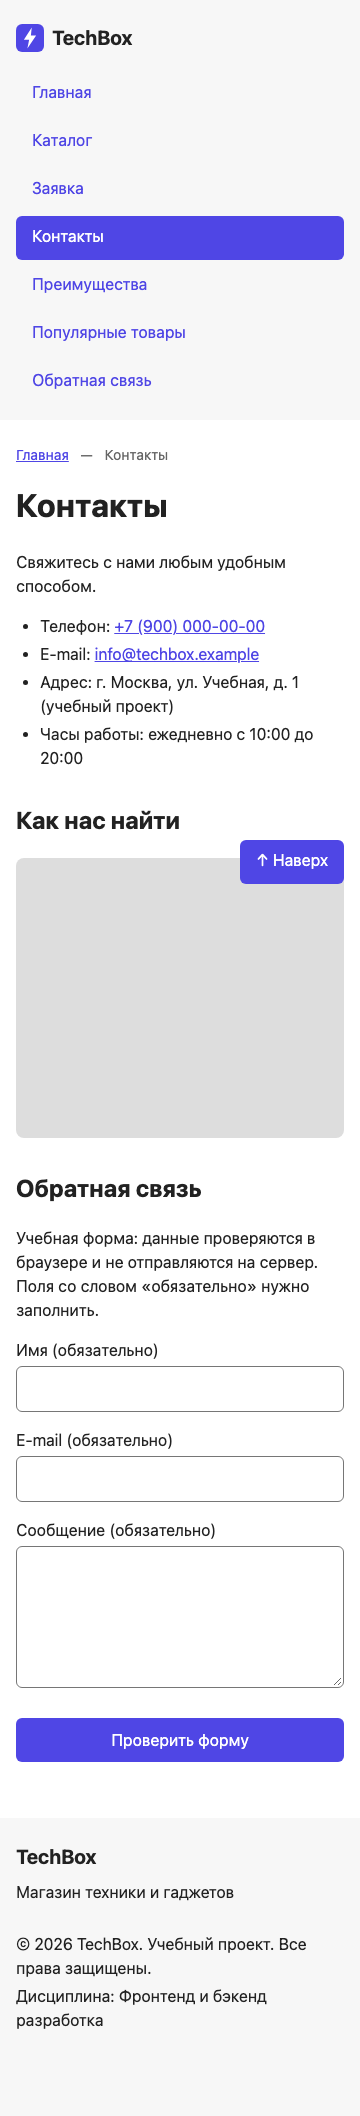
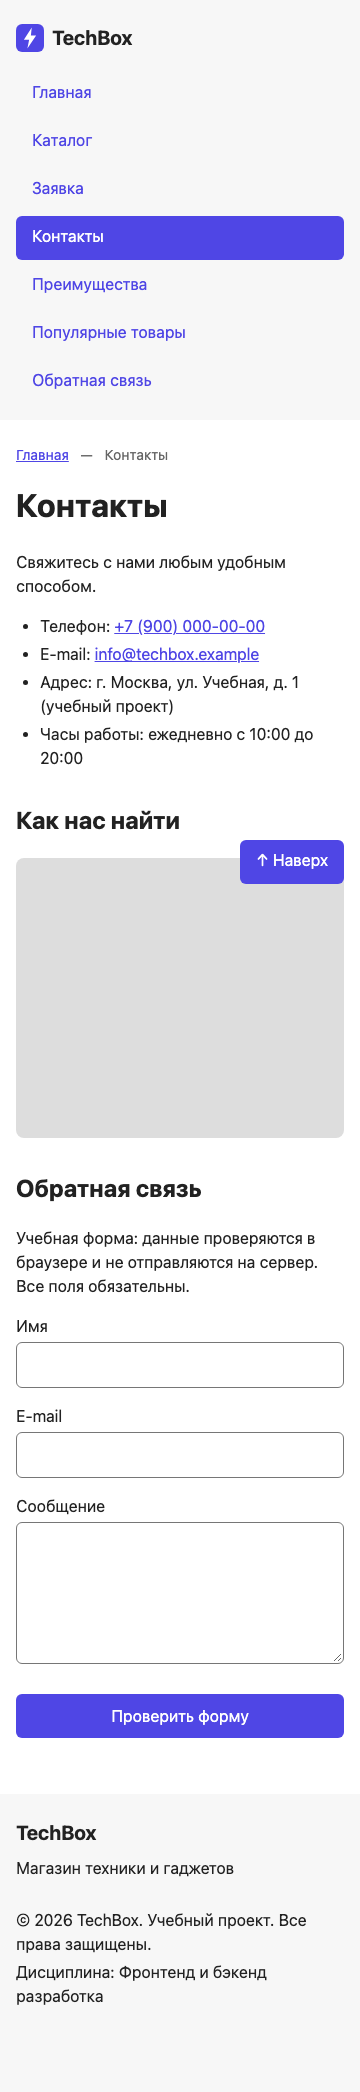
fix: simplify feedback labels and refresh script cache

diff --git a/contacts.html b/contacts.html
@@ -8,7 +8,7 @@
   <link rel="icon" href="images/logo.svg" type="image/svg+xml">
   <link rel="stylesheet" href="css/style.css">
   <link rel="stylesheet" href="css/responsive.css">
-  <script src="js/main.js" defer></script>
+  <script src="js/main.js?v=kr1-original" defer></script>
 </head>
 <body>
   <a class="skip-link" href="#main">Перейти к основному содержимому</a>
@@ -71,18 +71,18 @@
 
     <section class="section" id="feedback">
       <h2 class="section__title">Обратная связь</h2>
-      <p id="feedback-note">Учебная форма: данные проверяются в браузере и не отправляются на сервер. Поля со словом «обязательно» нужно заполнить.</p>
+      <p id="feedback-note">Учебная форма: данные проверяются в браузере и не отправляются на сервер. Все поля обязательны.</p>
       <form class="order-form" id="order-form" action="#feedback" method="post" aria-describedby="feedback-note" novalidate>
         <div class="order-form__field">
-          <label class="order-form__label" for="feedback-name">Имя (обязательно)</label>
+          <label class="order-form__label" for="feedback-name">Имя</label>
           <input class="order-form__input" id="feedback-name" name="name" type="text" autocomplete="given-name" minlength="2" required>
         </div>
         <div class="order-form__field">
-          <label class="order-form__label" for="feedback-email">E-mail (обязательно)</label>
+          <label class="order-form__label" for="feedback-email">E-mail</label>
           <input class="order-form__input" id="feedback-email" name="email" type="email" autocomplete="email" required>
         </div>
         <div class="order-form__field order-form__field--wide">
-          <label class="order-form__label" for="feedback-comment">Сообщение (обязательно)</label>
+          <label class="order-form__label" for="feedback-comment">Сообщение</label>
           <textarea class="order-form__textarea" id="feedback-comment" name="comment" rows="5" required></textarea>
         </div>
         <div class="order-form__actions">

diff --git a/index.html b/index.html
@@ -8,7 +8,7 @@
   <link rel="icon" href="images/logo.svg" type="image/svg+xml">
   <link rel="stylesheet" href="css/style.css">
   <link rel="stylesheet" href="css/responsive.css">
-  <script src="js/main.js" defer></script>
+  <script src="js/main.js?v=kr1-original" defer></script>
 </head>
 <body>
   <a class="skip-link" href="#main">Перейти к основному содержимому</a>

diff --git a/order.html b/order.html
@@ -8,7 +8,7 @@
   <link rel="icon" href="images/logo.svg" type="image/svg+xml">
   <link rel="stylesheet" href="css/style.css">
   <link rel="stylesheet" href="css/responsive.css">
-  <script src="js/main.js" defer></script>
+  <script src="js/main.js?v=kr1-original" defer></script>
 </head>
 <body>
   <a class="skip-link" href="#main">Перейти к основному содержимому</a>
